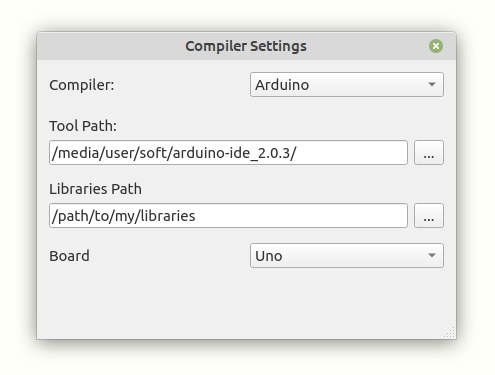
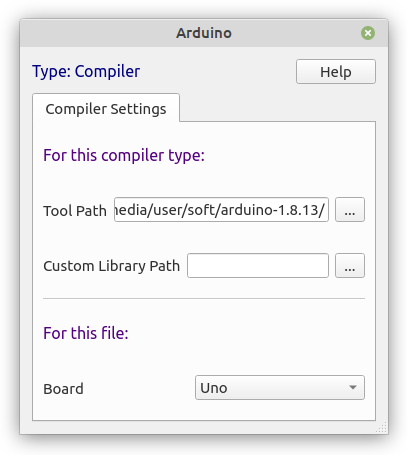
Updated some information to 1.1.0

diff --git a/2-Editor/Compiler.md b/2-Editor/Compiler.md
@@ -1,38 +1,53 @@
-SimulIDE does not distribute any compiler, but you can use almost any compiler from the Editor if it is already installed in your system, configured and working properly.<br>
+SimulIDE does not distribute any compiler.<br>
+To use a compiler it must be installed in your system and working properly.<br>
 
-This is achieved by configuring the compiler command and options in XML files located at data/codeeditor/compilers/<br>
+Then SimulIDE can use it by executing it's command and arguments.<br>
+This is achieved by configuring the compiler command and options in XML files located at SimulIDE/data/codeeditor/compilers/ or User_data_folder/codeeditor/compilers/<br>
 
 There are some compilers already configured included in SimulIDE, but you might need to tweak some settings within the XML file according to your compiler's specifications (e.g., altering the executable name or extension for Windows).<br>
-See [[#File Structure]] below to know how these files work and how to edit them or add new compilers.<br>
+See [[#File Structure]] below to know how these files work and how to edit them or [[#Adding Compilers|add new compilers]].<br>
 If you have any questions please ask in our [forum](https://simulide.forumotion.com/)
 
 Some compilers are automatically loaded for some file extensions, for example:<br>
-**.ino** : Arduino compiler.<br>
-**.gcb**: GcBasic compiler.<br>
-**.as** : Script compiler <br>
+**.ino** : [[Arduino compiler]].<br>
+**.gcb**: [[GcBasic compiler]].<br>
+**.as** : [[Script compiler]]. <br>
 
-If your file has a different extension, you need to choose a compiler:<br>
+If your file has a different extension, you need to choose a compiler for that file or create a new one.<br>
 
-In version 1.0.0, open "Compiler Settings" in the tool bar by selecting it from the ![[settings.svg]] Settings menu.<br>
-Once there, choose a compiler from the list and customize any additional options (like 'Tool Path') if necessary.
+---
 
-![[comp_settings.png]]
+## Settings:
+
+In version 1.0.0, open "Compiler Settings" in the tool bar by selecting it from the ![[settings.svg]] Settings menu and choose a compiler from the list.<br>
 
 In version 1.1.0 first choose a compiler in "File Settings" then configure the compiler in "Compiler Settings".<br>
 
+Once there,  customize any options (like 'Tool Path') if necessary.<br>
+
+![[comp_settings.png]]
+
+Options can be different for each compiler and will be added depending on the fields used in the configuration file.
+
+<br>
+
+---
 
 ## Compiling:
 
 Once the compiler is configured you can compile the file by clicking in the compile button in the tool bar: ![[compile.svg]] <br>
-Have a look at the bottom panel to see if there is some error.
+Have a look at the bottom panel to see the output of the compiling process and check if there is some error.
 
-If there are no errors you can upload the hex file generated to a microcontroller in the circuit by clicking the upload button in tool bar: ![[upload.svg]] 
+If there are no errors you can upload the hex file generated to a microcontroller in the circuit by clicking the upload button in tool bar: ![[upload.svg]]  <br>
+If you click the upload button it will compile first and then upload.
 
+**Important!!** <br>
 Note that if there is more than one microcontroller in the circuit, the hex file will be uploaded to the "active" microcontroller, which is the one with a yellow dot:
 
 ![[mainmcu.png]]
 
 To change the "active" microcontroller, right-click on it to open context menu and select "Main Mcu"
+
 <br>
 
 ---
@@ -49,6 +64,7 @@ If the compiler you want is not included in the list, you can add new compilers.
 
 To add a compiler, just add an xml file in the folders mentioned above.<br>
 Your compiler will be added to the list in Compiler Settings dialog.
+
 <br>
 
 ---
@@ -74,6 +90,7 @@ The structure of the xml file is like this:
 
 First the compiler name, type and other characteristics are defined in the field "compiler".<br>
 Then you can add as many build steps as you want in fields "step".
+
 <br>
 
 ---
@@ -112,6 +129,7 @@ Note that you must use this path in your command arguments if needed  (see examp
 **syntax:** syntax file used for highlighting.<br>
 Syntax files are located at: SimulIDE_1.x.x/data/codeeditor/syntax/<br>
 You can add your custom syntax files in that folder and use in your compiler definitions.
+
 <br>
 
 ---
@@ -132,6 +150,7 @@ Each step need to have at least a "command".
 **command:** command to execute.<br>
 **arguments:** arguments to add to the command when compiling.<br>
 **argsDebug:** arguments to add to the command when compiling for debug.
+
 <br>
 
 ---
@@ -153,6 +172,7 @@ Then we can use these substitutions:
 | **\$inclPath**  | - |      include path (defined in Settings Dialog) |
 | **\$family**    | - |     device family (defined in Settings Dialog) |
 | **\$device**    | - |       device model (defined i Settings Dialog) |
+
 <br>
 
 ---
@@ -200,6 +220,7 @@ And the complete command it will execute for the first build step is this (all i
 ```xml
 "/path/to/myCompiler/avr-gcc" -mmcu=atmega8 -Os -o /path/toMyproject/build_mycode/mycode.elf "/path/toMyproject/mycode.c"
 ```
+
 <br>
 
 ---

diff --git a/2-Editor/Code Editor.md b/2-Editor/Code Editor.md
@@ -14,6 +14,7 @@ When a file is modified, an asterisk: * will appear in the tab besides the file 
 - [[Debugger]]
 
 <br>
+
 ---
 
 ## Tool bar
@@ -23,9 +24,10 @@ At the top we find the tool bar with 5 sections (from left to right):
 ![[edit_toolbar.png]]
 
 ###  Settings:
->  ![[settings.svg]] **Settings:** open settings menu:<br>
+>  ![[settings.svg]] open settings menu:<br>
 > > [[#Editor settings]].<br>
-> > [[Compiler]] settings.<br>
+> > [[#File settings]].<br>
+> > [[Compiler#Settings|Compiler settings]].<br>
 
 ###  File actions:
  >  ![[lastfiles.svg]] **Recent files:** show a list of last files used.<br>
@@ -45,6 +47,7 @@ At the top we find the tool bar with 5 sections (from left to right):
  >  ![[debug.svg]] **Debug:** starts [[Debugger]].
 
 <br>
+
 ---
 
 ##  Text editor
@@ -52,6 +55,8 @@ At the top we find the tool bar with 5 sections (from left to right):
 In the middle, the text editor itself is the space where we can see an edit text files.
 
 ###  Editor Settings
+
+![[edit_settings.png]]
 
 - **Font Size:** sets the font size ( also ctrl+ and ctrl- works) ( default 9).
 - **Tab Size:** sets the tab size ( default 4 ).
@@ -62,9 +67,34 @@ In the middle, the text editor itself is the space where we can see an edit text
 
 ![[show_spaces.png]]
 
+<br>
+
+---
+
+### File settings
+
+![[file_settings.png]]
+
+- **Compiler:** compiler to use for this file.
+- **Save settings at file close:** whether to save file setting to a .cfg file.
+
+**Actions after opening this file:**<br>
+If you save configuration, choose which actions to perform next time this file is opened.<br>
+- **Load Compiler:** load compiler choosen above.
+- **Load Breakpoints:** load breakpoints used in Debugger.
+- **Restore files:** open circuit and Editor documents present when this file was closed.
+
+<br>
+
+---
+
 ###  Context menu:
 
 Open the context menu by Right-clicking to: Undo, Redo, Cut, Copy, Paste, Remove or Reload document.
+
+<br>
+
+---
 
 ###  Indentation:
 
@@ -73,6 +103,10 @@ To unindent use Shift + Tab key.<br>
 You can select a block of text and indent/unindent it.
 
 New lines follow the indentation of previous line.
+
+<br>
+
+---
 
 ###  Syntax highlighting:
 
@@ -92,9 +126,11 @@ There are some syntax already supported:
 - Xml.
 
 You can modify existing ones or add new syntax using the files at:<br>
-SimulIDE/data/codeeditor/syntax/
+**SimulIDE/data/codeeditor/syntax/**<br>
+Or: **User_data_folder/codeeditor/syntax/**
 
 <br>
+
 ---
 
 ##  Message Panel
@@ -102,6 +138,8 @@ SimulIDE/data/codeeditor/syntax/
 This [[Message panel]] below the Editor view shows messages from the Editor, [[Compiler]] and [[Debugger]].
 
 Errors will appear highlighted in yellow background and warnings in bold orange.
+
+<br>
 
 ---
 

diff --git a/1-Circuit/Components/Subcircuits.md b/1-Circuit/Components/Subcircuits.md
@@ -10,6 +10,7 @@ There are several types of subcircuits, but we can group them into 2 categories:
 
 - [[#Integrated Circuits]].
 - [[#Boards]].
+- [[#Modules]].
 
 An example of ICs already included in SimulIDE are all 74 and CD series.<br>
 And examples of Boards are Arduinos, and components in "Led displays" and "Tools" categories in the component list.
@@ -87,6 +88,30 @@ To return to normal mode just click in any empty space or right-click.
 Later, when you use this subcircuit in your circuits, you will be able to access exposed components from the subcircuit's context menu:
 
 ![[exp_ctx_men.png]]
+
+---
+
+## Modules:
+
+Modules are an special type of Board that can be stacked on top of Boards or other Modules. In a similar way to Shields but with more freedom and in a more general way.<br>
+
+To create a Module, select "Module" in Package type:
+
+![[module.png]]
+
+Modules are connected using Sockets and Headers.<br>
+The Board or Module below should use a Socket and the Module to be stacked on top should use a Header **pointing down**:
+
+![[header_down.png]]
+
+For example in this case "board2" can be stacked on top of "board1" and "board1" on top of "board0":
+
+![[module_stack.png]]
+
+Just by placing the Header aligned on top of a Socket it will connect and the simulation will work.<br>
+
+To get a Module "attached" to a Board or another Module, Right-Click on it and select "Attach". Then the Module will move with the board below it<br>
+To "free" the Module again, Right-Click on it and select "Detach".
 
 ---
 

diff --git a/3-Files/File organization.md b/3-Files/File organization.md
@@ -1,5 +1,5 @@
 SimulIDE relies in a set of external files for different purposes.<br>
-In SimulIDE root folder you will see 2 folders:
+In SimulIDE root folder you will see 2 folders:<br>
 - **examples:** example circuits.<br>
 - **data:** configuration and auxiliar files.<br>
 
@@ -10,7 +10,7 @@ SimulIDE executable must be in the same folder than **examples** and **data** to
 ## Data folder:
 This folder contains configuration and other auxiliary files for Microcontrollers, subcircuits, compilers, etc.<br>
 
-Some dediated folders are:
+Some dedicated folders are:<br>
 - **codeeditor:** contains configuration files for the Editor and Compilers.<br>
     - **compilers:** here are configuration files for compilers.<br>
        You can edit some of these files if needed or add new ones.<br>

diff --git a/1-Circuit/Circuit canvas.md b/1-Circuit/Circuit canvas.md
@@ -32,15 +32,20 @@ Options:
 
 ## Key actions:
 
-- **Copy:** Ctrl+C or Component contex menu.
+- **Copy:** Ctrl+C or Component context menu.
 - **Paste:** Ctrl+V or Circuit context menu.
 - **Cut:** Ctrl+X.
 - **Undo:** Ctrl+Z.
-- **Redo:** CTRL+Shift+Z or Ctrl+Y.
+- **Redo:** Ctrl+Shift+Z or Ctrl+Y.
 - **New circuit:** Ctrl+N.
 - **Open Circuit:** Ctrl+O.
+-  **Save Circuit:** Ctrl+S.
+- **Save Circuit as:** Ctrl+Shift+S.
 - **Select All:** Crtl+A.
-- **Rotate Component:** Ctrl+R
+- **Rotate Component CW:** Ctrl+R
+- **Rotate Component CCW:** Ctrl+Shift+R
+- **Flip Component Horizontal:** Ctrl+L
+- **Flip Component Vertical:** Ctrl+Shift+L
 - **Delete Components:** Del or Back_space.
 - **Create Component:** ALt+Shortcut.
 - **Cancel action:** Esc.

diff --git a/1-Circuit/Component.md b/1-Circuit/Component.md
@@ -32,12 +32,12 @@ This is a group of components located in the [[Component list#Reactive|Reactive 
 You can [[Custom Components|create your own components]] for SimulIDE.<br>
 There are 2 main types of components you can create in SimulIDE:
 
-### [[Subcircuits]]:
+### 1- [[Subcircuits]]:
 These are just circuits hidden inside a package.<br>
 Check the [[Subcircuits|page specific for Subcircuits here]].
 
 
-### [[Modular]]:
+### 2- [[Modular]]:
 These are components created by combining different modules that already implemented in SimulIDE.<br>
 Check the [[Modular|page specific for Modular Components here]].
 

diff --git a/1-Circuit/Components/Manage Components.md b/1-Circuit/Components/Manage Components.md
@@ -1,0 +1,14 @@
+Right-click in any place in the [[Component list]] and select "Manage Components" to open this dialog:
+
+![[manage.png]]
+
+## Show/hide components or categories:
+
+There you can see a list of all components with a select box at the left side.<br>
+Check or un-check the select box to show/hide the Component from the list.
+
+## Set shortcut for Components:
+
+At the right side there is a column dedicated to the shortcut.<br>
+Set a single character as shorcut for each component if you want.<br>
+To create a Component in the Circuit, use **Alt-shortcut**.

diff --git a/Application/Circuit.md b/Application/Circuit.md
@@ -1,8 +1,11 @@
+This is where the action happens, here is the circuit, power on/off buttons, settings and information about the simulation.<br>
 
+These are the main sections:<br>
 1. [[Circuit Tool bar]]<br>
 2. [[Circuit canvas]]<br>
 3. [[Component list]]<br>
-4. [[Message panel]]<br>
+4. [[Info panel]]<br>
+5. [[Message panel]]<br>
 
  Click the Power button:  ![[poweroff.png | 20]]  in the [[Circuit Tool bar| Tool bar]] to start or stop the simulation.<br>
  You can pause the simulation with the pause button: ![[pausesim.png | 20]]

diff --git a/1-Circuit/Circuit animation.md b/1-Circuit/Circuit animation.md
@@ -11,7 +11,7 @@ Wire color represents logic states:<br>
 - **Red:** High state (V > 2.5 V).<br>
 - **Blue:** Low state (V < 2.5 V).<br>
 
-Buses are always shown in green color.
+Buses are always shown in green color with a thicker line.
 
 ---
 

diff --git a/1-Circuit/Components/Modular Components/Monitor.md b/1-Circuit/Components/Modular Components/Monitor.md
@@ -25,5 +25,3 @@ It is also possible to save the list of registers you are watching to a file, so
 - Video: [MCU Monitor SimulIDE 1.0.0](https://www.youtube.com/watch?v=uVwMEadtIEM)
 
 ---
-
-#tutorial
